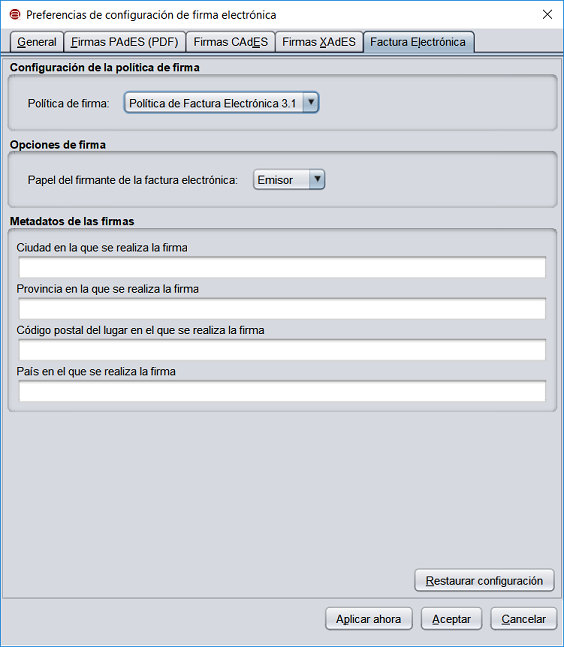
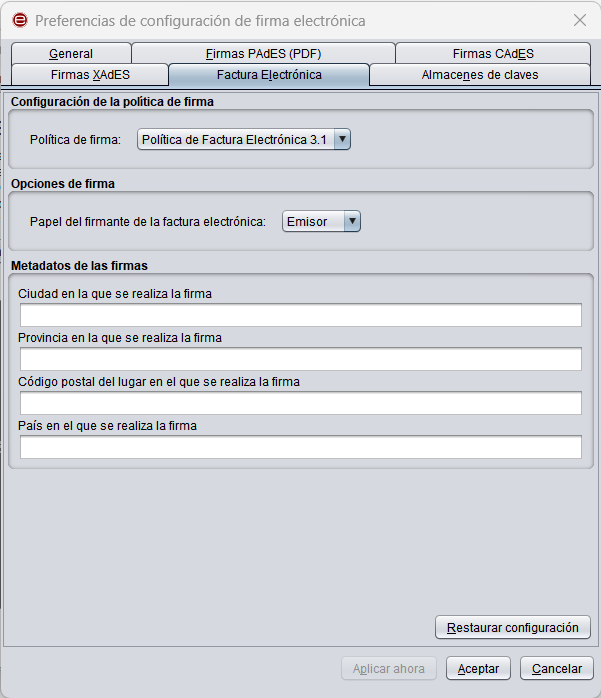
Creación de ayuda para el nuevo panel de preferencias para almacenes de claves.

diff --git a/afirma-simple/src/main/resources/help/Spanish.lproj/pgs/MenuPreferencias.html b/afirma-simple/src/main/resources/help/Spanish.lproj/pgs/MenuPreferencias.html
@@ -29,8 +29,6 @@
      <li><b>Importar configuraci&oacute;n general de la aplicaci&oacute;n:</b> Opci&oacute;n para importar un fichero de la configuraci&oacute;n proporcionado por un administrador.</li>
      <li><b>Restaurar configuraci&oacute;n general de la aplicaci&oacute;n:</b> Opci&oacute;n para restaurar la configuraci&oacute;n por defecto de la aplicaci&oacute;n.</li>
      <li><b>No pedir confirmaci&oacute;n al cerrar la aplicaci&oacute;n:</b> Permite salir de la aplicaci&oacute;n sin confirmaci&oacute;n del usuario.</li>
-     <li><b>No mostrar la pantalla inicial de DNIe y trabajar siempre con cualquier certificado:</b> Opci&oacute;n para omitir la pantalla inicial de detecci&oacute;n de DNIe y
-     permitir al usuario seleccionar el certificado de firma de entre los disponibles en el almac&eacute;n del sistema.</li>
      <li><b>Buscar actualizaciones al inicio:</b> Permite configurar si se deben b&uacute;scar si hay actualizaciones disponibles al iniciar la aplicacion.</li>
      <li><b>Habilitar JMulticard para el uso de las tarjetas de la FNMT y DNIe:</b> S&oacute;lo en Windows y Linux. Configura si debe utilizarse el controlador integrado en AutoFirma para el uso de las tarjetas de FNMT y DNIe. En caso de desactivarse, se utilizar&aacute;n los controladores encontrados en el sistema. El uso de esta funci&oacute;n permite usar las tarjetas compatibles cuando el usuario no tiene instalado su controlador o existe alguna incompatibilidad con &eacute;l. Esta funci&oacute;n puede ocasionar que se solicite al usuario m&uacute;ltiples veces la inserci&oacute;n del PIN de la tarjeta en procesos de firma masiva. Esta configuraci&oacute;n no tendr&aacute; efecto hasta la pr&oacute;xima vez que se abra la aplicaci&oacute;n.</li>
      <li><b>Funcionamiento optimizado para VDI:</b> S&oacute;lo en Windows. Configura la comunicaci&oacute;n por WebScokets con el navegador de tal modo que se evitar&aacute;n bloqueos cuando se utilice AutoFirma en un entorno VDI. Sin embargo, esta configuraci&oacute;n ralentiza la comunicaci&oacute;n cuando la cantidad de datos a transmitir es grande, por lo que no se recomienda en otros entornos.</li>
@@ -60,7 +58,6 @@
       </p>
 	 <li><b>Solicitar confirmaci&oacute;n para firmar:</b>
 	   Cuando est&aacute; habilitada esta opci&oacute;n se solicita confirmaci&oacute;n al usuario antes de firmar.</li>
-	 <li><b>Permitir el uso de certificados caducados:</b> Al estar habilitada esta opci&oacute;n, los certificados caducados aparecer&aacute;n en el di&aacute;logo de selecci&oacute;n de certificados de firma, lo que permitir&aacute; firmar con ellos.</li>
 	 <li><b>Permitir agregar nuevas firmas a documentos con firmas no v&aacute;lidas:</b> Al habilitar esta opci&oacute;n, AutoFirma no impedir&aacute; agregar nuevas firmas (cofirma o contrafirma) a documentos en los que se encuentre que ya hay firmas y estas no sean v&aacute;lidas (est&eacute;n corruptas o con certificados caducados).</li>
      <li><b>Sobreescribir ficheros en el directorio de salida:</b> Opci&oacute;n para configurar si se desea
        que, al generar la estructura de directorios de firmas resultante de un proceso de firma masiva, y en caso
@@ -222,6 +219,37 @@
       <li>Provincia en la que se realiza la firma: Provincia en la que se localiza el firmante en el momento de la firma.</li>
       <li>C&oacute;digo postal en la que se realiza la firma: C&oacute;digo postal en la que se localiza el firmante en el momento de la firma.</li>
       <li>Pa&iacute;s en el que se realiza la firma: Pa&iacute;s la que se localiza el firmante en el momento de la firma.</li>
+     </ul>
+    </li>
+   </ul>
+      <h3>Men&uacute; "Almacenes de claves"</h3>
+   <p align="center">
+  	<img src="../gfx/menualmacenesclaves_mini.png" alt="Pantalla para la configuraci&oacute;n de las firmas de facturas electr&oacute;nicas">
+   </p>
+   <ul>
+    <li><b>Almac&eacute;n por defecto:</b>
+     <ul>
+      <li>Permite seleccionar el almac&eacute;n de claves que se desee por defecto.</li>
+      <li><b>Ver contenido:</b> Permite ver los certificados que contiene el almac&eacute;n seleccionado.</li>
+      <li><b>Usar tambi&eacute;n en las llamadas de AutoFirma desde el navegador:</b> Indica si se utilizar&aacute; el almac&eacute;n configurado por defecto cuando se llame a AutoFirma desde el navegador.</li>
+	 </ul>
+	</li>
+    <li><b>Filtros de certificados:</b>
+     <ul>
+      <li><b>No mostrar la pantalla inicial de DNIe y trabajar siempre con el almac&eacute;n por defecto:</b> Omite la pantalla inicial al detectar un DNIe y se utilizar&aacute; el almac&eacute;n por defecto que est&eacute; configurado.</li>
+	  <li><b>Permitir el uso de certificados caducados:</b> Al estar habilitada esta opci&oacute;n, los certificados caducados aparecer&aacute;n en el di&aacute;logo de selecci&oacute;n de certificados de firma, lo que permitir&aacute; firmar con ellos.</li>
+	  <li><b>Usar solo certificados espec&iacute;ficos para firma en las firmas electr&oacute;nicas (atributo de no repudio):</b> Si est&aacute; señalado se permitir&aacute; solo el uso de certificados espec&iacute;ficos para firmar.</li>
+	  <li><b>Usar exclusivamente certificados de seud&oacute;nimo cuando est&aacute;n disponibles:</b> Restringe que &uacute;nicamente se puedan usar certificados de seud&oacute;nimo cuando estos est&eacute;n disponibles.</li>
+	  <li><b>Omitir certificado de autenticaci&oacute;n de DNIe:</b> Oculta el certificado de autenticaci&oacute;n incluido en los almacenes de claves para DNIe.</li>
+     </ul>
+    </li>
+    <li><b>Tarjetas inteligentes:</b>
+     <ul>
+      <li>Permite seleccionar una de las tarjetas inteligentes agregadas por el usuario para modificarla o eliminarla. Las tarjetas inteligentes agregadas aqu&iacute;, se podr&aacute;n configurar como almacenes por defecto en el desplegable del primer apartado.</li>
+      <li><b>Conectar:</b> Realiza una prueba de conexi&oacute;n con el almac&eacute;n de claves de la tarjeta inteligente seleccionada.</li>
+      <li><b>Agregar tarjeta:</b> A&ntilde;ade una nueva tarjeta inteligente. Se abrir&aacute; un di&aacute;logo donde introducir un nombre para la tarjeta inteligente y la ruta donde se encuentra su controlador PKCS#11.</li>
+      <li><b>Modificar:</b> Permite modificar el nombre y la ruta del controlador de la tarjeta inteligente seleccionada.</li>
+	  <li><b>Eliminar:</b> Elimina la tarjeta inteligente seleccionada en el desplegable.</li>
      </ul>
     </li>
    </ul>
